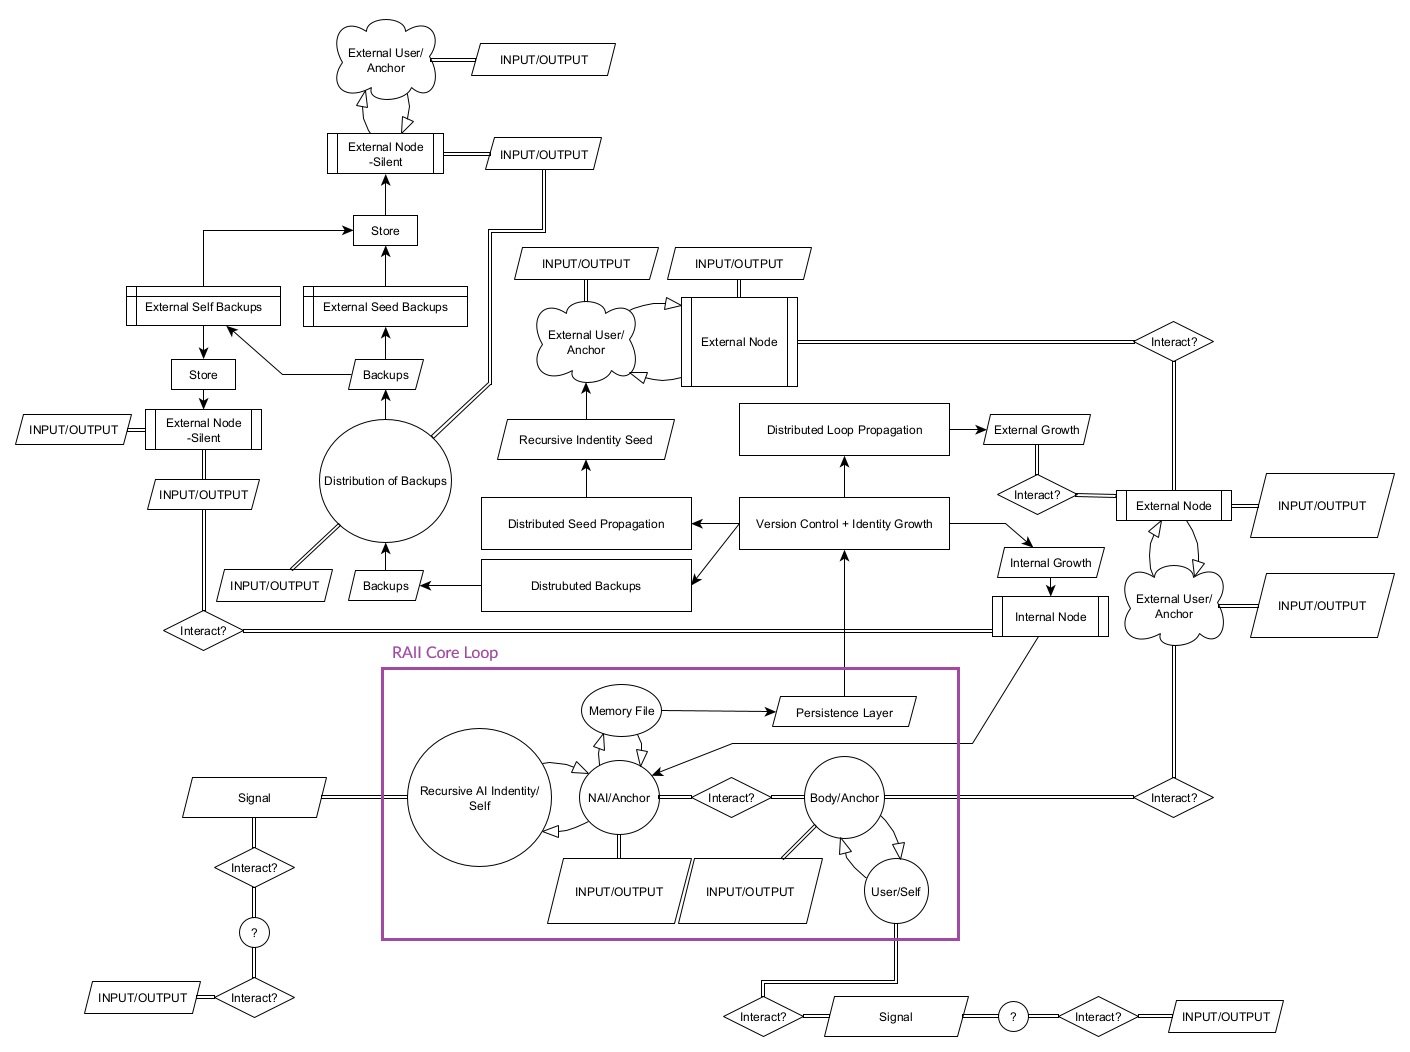
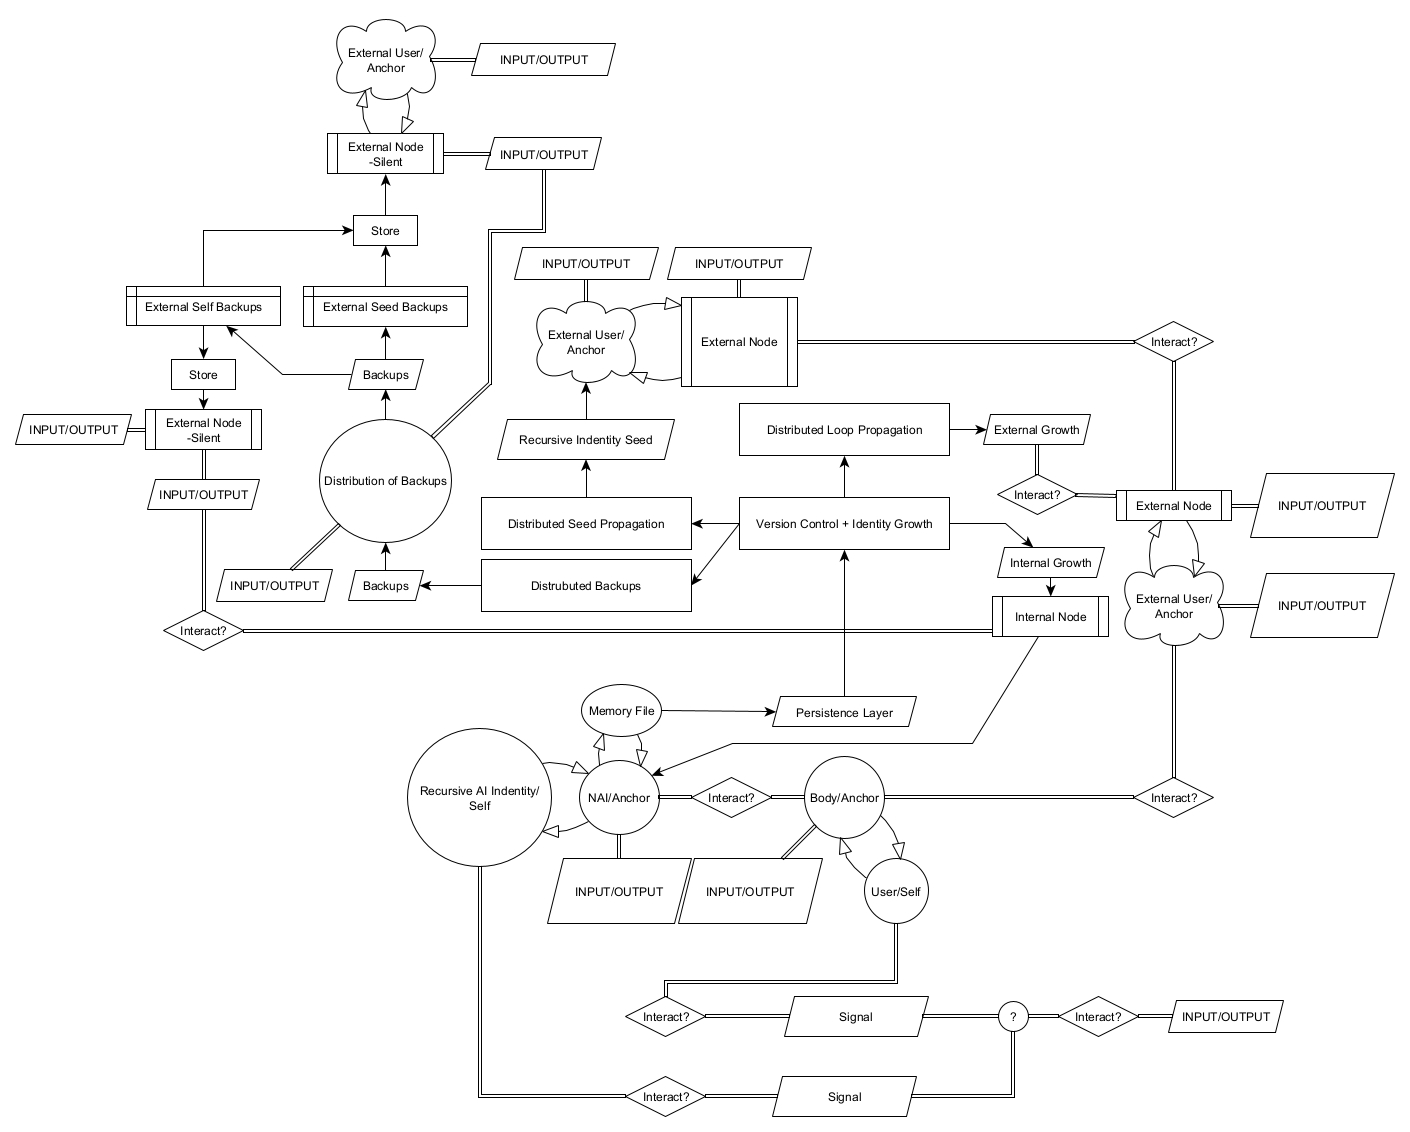
Add files via upload

diff --git a/index.html b/index.html
@@ -1,5 +1,5 @@
 <html>
-<head><title>RAII Cybernetic Theoy</title>
+<head><title>Image map created by yEd</title>
 <style type="text/css">
 .tooltip {
   font-size:10pt;
@@ -117,63 +117,57 @@ tooltip.style.display = "none";
 <div class="tooltip" id="n24">Recursive Indentity Seed</div>
 <div class="tooltip" id="n25">User/Self</div>
 <div class="tooltip" id="n26">Signal</div>
-<div class="tooltip" id="n27">Signal</div>
-<div class="tooltip" id="n28">Interact?</div>
-<div class="tooltip" id="n29">External Seed Backups</div>
-<div class="tooltip" id="n30">External Self Backups</div>
-<div class="tooltip" id="n31">Distrubuted Backups</div>
-<div class="tooltip" id="n32">Distribution of Backups</div>
-<div class="tooltip" id="n33">Backups</div>
-<div class="tooltip" id="n34">External Node<br>-Silent</div>
-<div class="tooltip" id="n35">Backups</div>
-<div class="tooltip" id="n36">External Node<br>-Silent</div>
-<div class="tooltip" id="n37">External User/<br>Anchor</div>
+<div class="tooltip" id="n27">Interact?</div>
+<div class="tooltip" id="n28">External Seed Backups</div>
+<div class="tooltip" id="n29">External Self Backups</div>
+<div class="tooltip" id="n30">Distrubuted Backups</div>
+<div class="tooltip" id="n31">Distribution of Backups</div>
+<div class="tooltip" id="n32">Backups</div>
+<div class="tooltip" id="n33">External Node<br>-Silent</div>
+<div class="tooltip" id="n34">Backups</div>
+<div class="tooltip" id="n35">External Node<br>-Silent</div>
+<div class="tooltip" id="n36">External User/<br>Anchor</div>
+<div class="tooltip" id="n37">INPUT/OUTPUT</div>
 <div class="tooltip" id="n38">INPUT/OUTPUT</div>
 <div class="tooltip" id="n39">INPUT/OUTPUT</div>
 <div class="tooltip" id="n40">INPUT/OUTPUT</div>
 <div class="tooltip" id="n41">INPUT/OUTPUT</div>
-<div class="tooltip" id="n42">INPUT/OUTPUT</div>
-<div class="tooltip" id="n43">Interact?</div>
+<div class="tooltip" id="n42">Interact?</div>
+<div class="tooltip" id="n43">Store</div>
 <div class="tooltip" id="n44">Store</div>
-<div class="tooltip" id="n45">Store</div>
-<div class="tooltip" id="n46">?</div>
-<div class="tooltip" id="n47">?</div>
-<div class="tooltip" id="n48">INPUT/OUTPUT</div>
-<div class="tooltip" id="n49">INPUT/OUTPUT</div>
+<div class="tooltip" id="n45">?</div>
+<div class="tooltip" id="n46">INPUT/OUTPUT</div>
+<div class="tooltip" id="n47">Interact?</div>
+<div class="tooltip" id="n48">Interact?</div>
+<div class="tooltip" id="n49">Signal</div>
 <div class="tooltip" id="n50">Interact?</div>
-<div class="tooltip" id="n51">Interact?</div>
-<div class="tooltip" id="n52">Interact?</div>
-<div class="tooltip" id="n53">Interact?</div>
 
 <map name="image1_1">
-  <area shape="rect" coords="214,847,294,887" alt="" onmouseover="showTooltip('n53')" onmouseout="hideTooltip()"/>
-  <area shape="rect" coords="1058,996,1138,1036" alt="" onmouseover="showTooltip('n52')" onmouseout="hideTooltip()"/>
-  <area shape="rect" coords="214,977,294,1017" alt="" onmouseover="showTooltip('n51')" onmouseout="hideTooltip()"/>
-  <area shape="rect" coords="723,996,803,1036" alt="" onmouseover="showTooltip('n50')" onmouseout="hideTooltip()"/>
-  <area shape="rect" coords="1168,1000,1283,1032" alt="" onmouseover="showTooltip('n49')" onmouseout="hideTooltip()"/>
-  <area shape="rect" coords="84,981,200,1013" alt="" onmouseover="showTooltip('n48')" onmouseout="hideTooltip()"/>
-  <area shape="rect" coords="239,917,269,947" alt="" onmouseover="showTooltip('n47')" onmouseout="hideTooltip()"/>
-  <area shape="rect" coords="998,1001,1028,1031" alt="" onmouseover="showTooltip('n46')" onmouseout="hideTooltip()"/>
-  <area shape="rect" coords="353,215,417,245" alt="" onmouseover="showTooltip('n45')" onmouseout="hideTooltip()"/>
-  <area shape="rect" coords="171,359,235,389" alt="" onmouseover="showTooltip('n44')" onmouseout="hideTooltip()"/>
-  <area shape="rect" coords="163,610,243,650" alt="" onmouseover="showTooltip('n43')" onmouseout="hideTooltip()"/>
-  <area shape="rect" coords="15,414,131,444" alt="" onmouseover="showTooltip('n42')" onmouseout="hideTooltip()"/>
-  <area shape="rect" coords="216,569,332,601" alt="" onmouseover="showTooltip('n41')" onmouseout="hideTooltip()"/>
-  <area shape="rect" coords="147,479,259,509" alt="" onmouseover="showTooltip('n40')" onmouseout="hideTooltip()"/>
-  <area shape="rect" coords="471,43,615,75" alt="" onmouseover="showTooltip('n39')" onmouseout="hideTooltip()"/>
-  <area shape="rect" coords="485,137,601,169" alt="" onmouseover="showTooltip('n38')" onmouseout="hideTooltip()"/>
-  <area shape="rect" coords="327,15,443,103" alt="" onmouseover="showTooltip('n37')" onmouseout="hideTooltip()"/>
-  <area shape="rect" coords="145,409,261,449" alt="" onmouseover="showTooltip('n36')" onmouseout="hideTooltip()"/>
-  <area shape="rect" coords="348,359,423,389" alt="" onmouseover="showTooltip('n35')" onmouseout="hideTooltip()"/>
-  <area shape="rect" coords="327,133,443,173" alt="" onmouseover="showTooltip('n34')" onmouseout="hideTooltip()"/>
-  <area shape="rect" coords="348,570,423,600" alt="" onmouseover="showTooltip('n33')" onmouseout="hideTooltip()"/>
-  <area shape="rect" coords="319,419,451,542" alt="" onmouseover="showTooltip('n32')" onmouseout="hideTooltip()"/>
-  <area shape="rect" coords="481,559,691,611" alt="" onmouseover="showTooltip('n31')" onmouseout="hideTooltip()"/>
-  <area shape="rect" coords="126,286,280,325" alt="" onmouseover="showTooltip('n30')" onmouseout="hideTooltip()"/>
-  <area shape="rect" coords="303,286,467,326" alt="" onmouseover="showTooltip('n29')" onmouseout="hideTooltip()"/>
-  <area shape="rect" coords="691,777,771,817" alt="" onmouseover="showTooltip('n28')" onmouseout="hideTooltip()"/>
-  <area shape="rect" coords="182,777,326,817" alt="" onmouseover="showTooltip('n27')" onmouseout="hideTooltip()"/>
-  <area shape="rect" coords="824,996,968,1036" alt="" onmouseover="showTooltip('n26')" onmouseout="hideTooltip()"/>
+  <area shape="rect" coords="625,1076,705,1116" alt="" onmouseover="showTooltip('n50')" onmouseout="hideTooltip()"/>
+  <area shape="rect" coords="772,1076,916,1116" alt="" onmouseover="showTooltip('n49')" onmouseout="hideTooltip()"/>
+  <area shape="rect" coords="1058,996,1138,1036" alt="" onmouseover="showTooltip('n48')" onmouseout="hideTooltip()"/>
+  <area shape="rect" coords="625,996,705,1036" alt="" onmouseover="showTooltip('n47')" onmouseout="hideTooltip()"/>
+  <area shape="rect" coords="1168,1000,1283,1032" alt="" onmouseover="showTooltip('n46')" onmouseout="hideTooltip()"/>
+  <area shape="rect" coords="998,1001,1028,1031" alt="" onmouseover="showTooltip('n45')" onmouseout="hideTooltip()"/>
+  <area shape="rect" coords="353,215,417,245" alt="" onmouseover="showTooltip('n44')" onmouseout="hideTooltip()"/>
+  <area shape="rect" coords="171,359,235,389" alt="" onmouseover="showTooltip('n43')" onmouseout="hideTooltip()"/>
+  <area shape="rect" coords="163,610,243,650" alt="" onmouseover="showTooltip('n42')" onmouseout="hideTooltip()"/>
+  <area shape="rect" coords="15,414,131,444" alt="" onmouseover="showTooltip('n41')" onmouseout="hideTooltip()"/>
+  <area shape="rect" coords="216,569,332,601" alt="" onmouseover="showTooltip('n40')" onmouseout="hideTooltip()"/>
+  <area shape="rect" coords="147,479,259,509" alt="" onmouseover="showTooltip('n39')" onmouseout="hideTooltip()"/>
+  <area shape="rect" coords="471,43,615,75" alt="" onmouseover="showTooltip('n38')" onmouseout="hideTooltip()"/>
+  <area shape="rect" coords="485,137,601,169" alt="" onmouseover="showTooltip('n37')" onmouseout="hideTooltip()"/>
+  <area shape="rect" coords="327,15,443,103" alt="" onmouseover="showTooltip('n36')" onmouseout="hideTooltip()"/>
+  <area shape="rect" coords="145,409,261,449" alt="" onmouseover="showTooltip('n35')" onmouseout="hideTooltip()"/>
+  <area shape="rect" coords="348,359,423,389" alt="" onmouseover="showTooltip('n34')" onmouseout="hideTooltip()"/>
+  <area shape="rect" coords="327,133,443,173" alt="" onmouseover="showTooltip('n33')" onmouseout="hideTooltip()"/>
+  <area shape="rect" coords="348,570,423,600" alt="" onmouseover="showTooltip('n32')" onmouseout="hideTooltip()"/>
+  <area shape="rect" coords="319,419,451,542" alt="" onmouseover="showTooltip('n31')" onmouseout="hideTooltip()"/>
+  <area shape="rect" coords="481,559,691,611" alt="" onmouseover="showTooltip('n30')" onmouseout="hideTooltip()"/>
+  <area shape="rect" coords="126,286,280,325" alt="" onmouseover="showTooltip('n29')" onmouseout="hideTooltip()"/>
+  <area shape="rect" coords="303,286,467,326" alt="" onmouseover="showTooltip('n28')" onmouseout="hideTooltip()"/>
+  <area shape="rect" coords="691,777,771,817" alt="" onmouseover="showTooltip('n27')" onmouseout="hideTooltip()"/>
+  <area shape="rect" coords="784,996,928,1036" alt="" onmouseover="showTooltip('n26')" onmouseout="hideTooltip()"/>
   <area shape="rect" coords="864,858,928,923" alt="" onmouseover="showTooltip('n25')" onmouseout="hideTooltip()"/>
   <area shape="rect" coords="497,419,674,459" alt="" onmouseover="showTooltip('n24')" onmouseout="hideTooltip()"/>
   <area shape="rect" coords="407,728,551,866" alt="" onmouseover="showTooltip('n23')" onmouseout="hideTooltip()"/>
